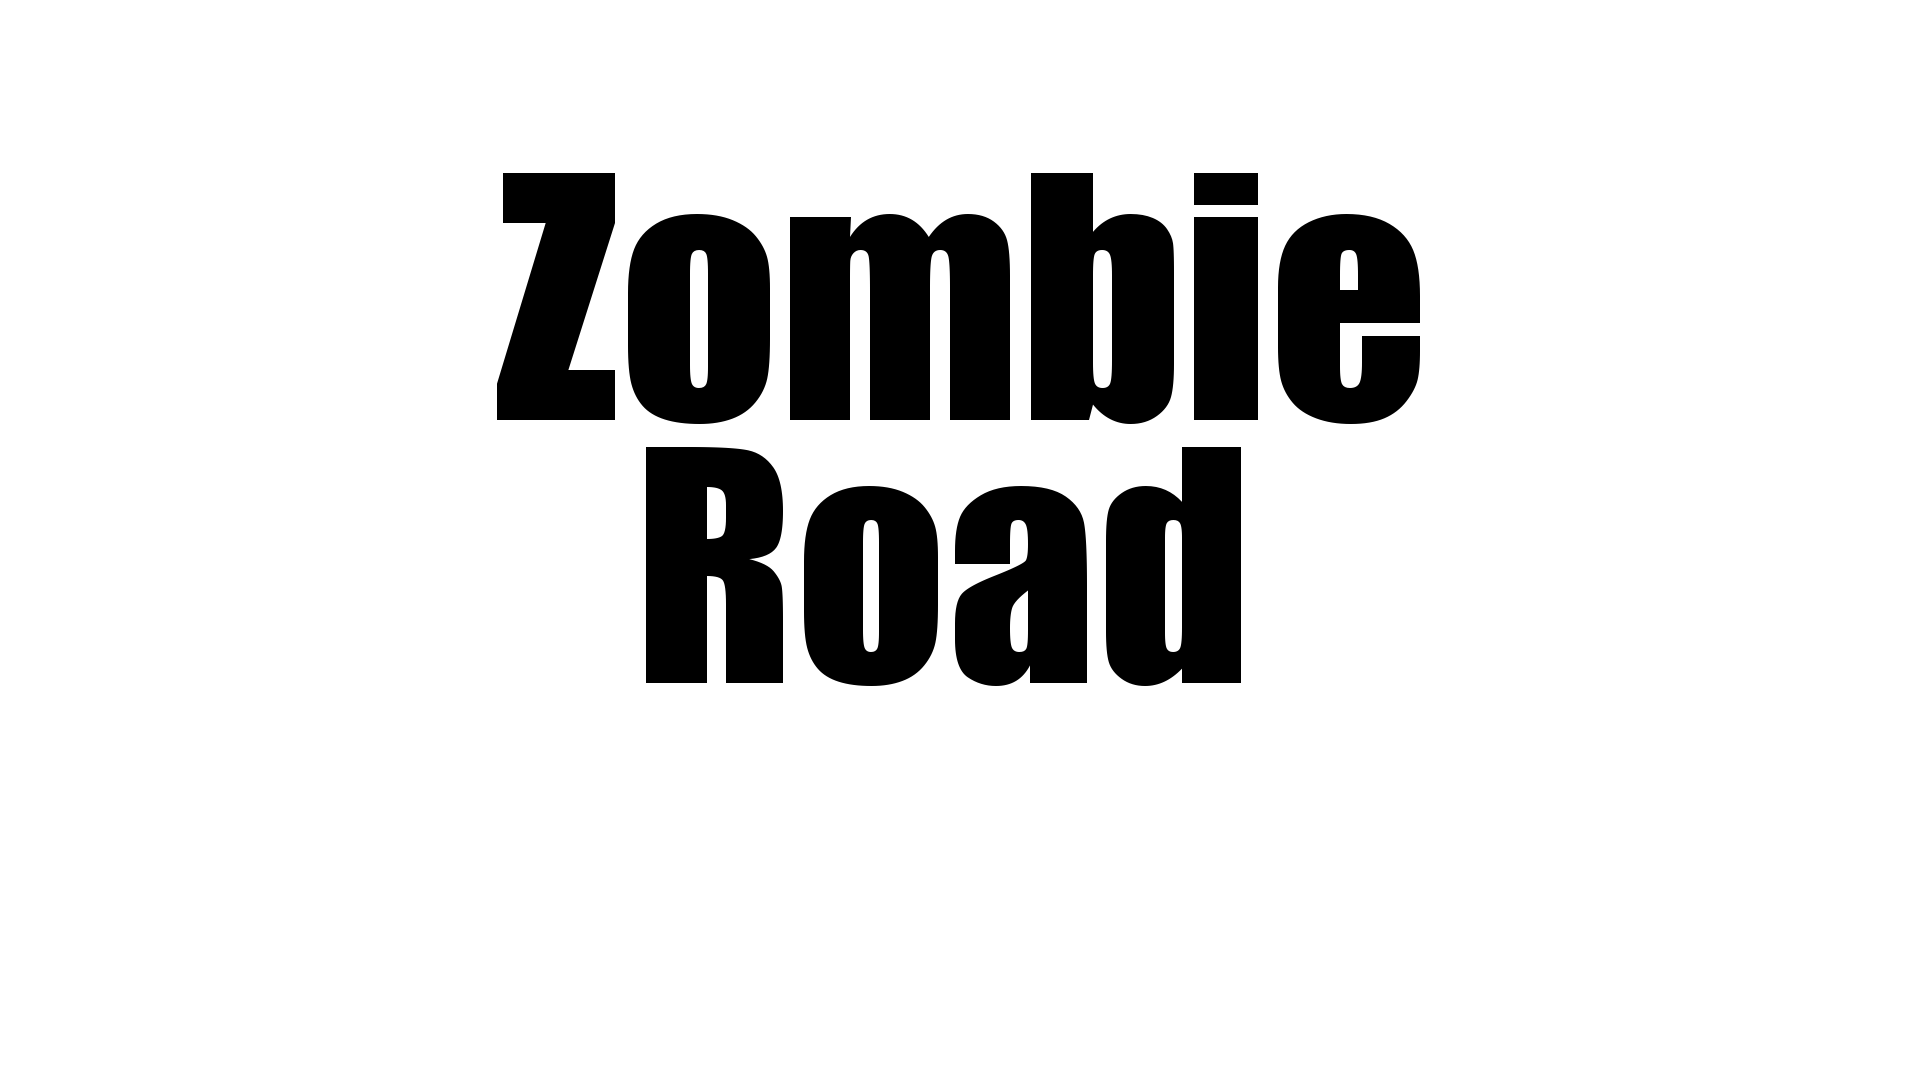
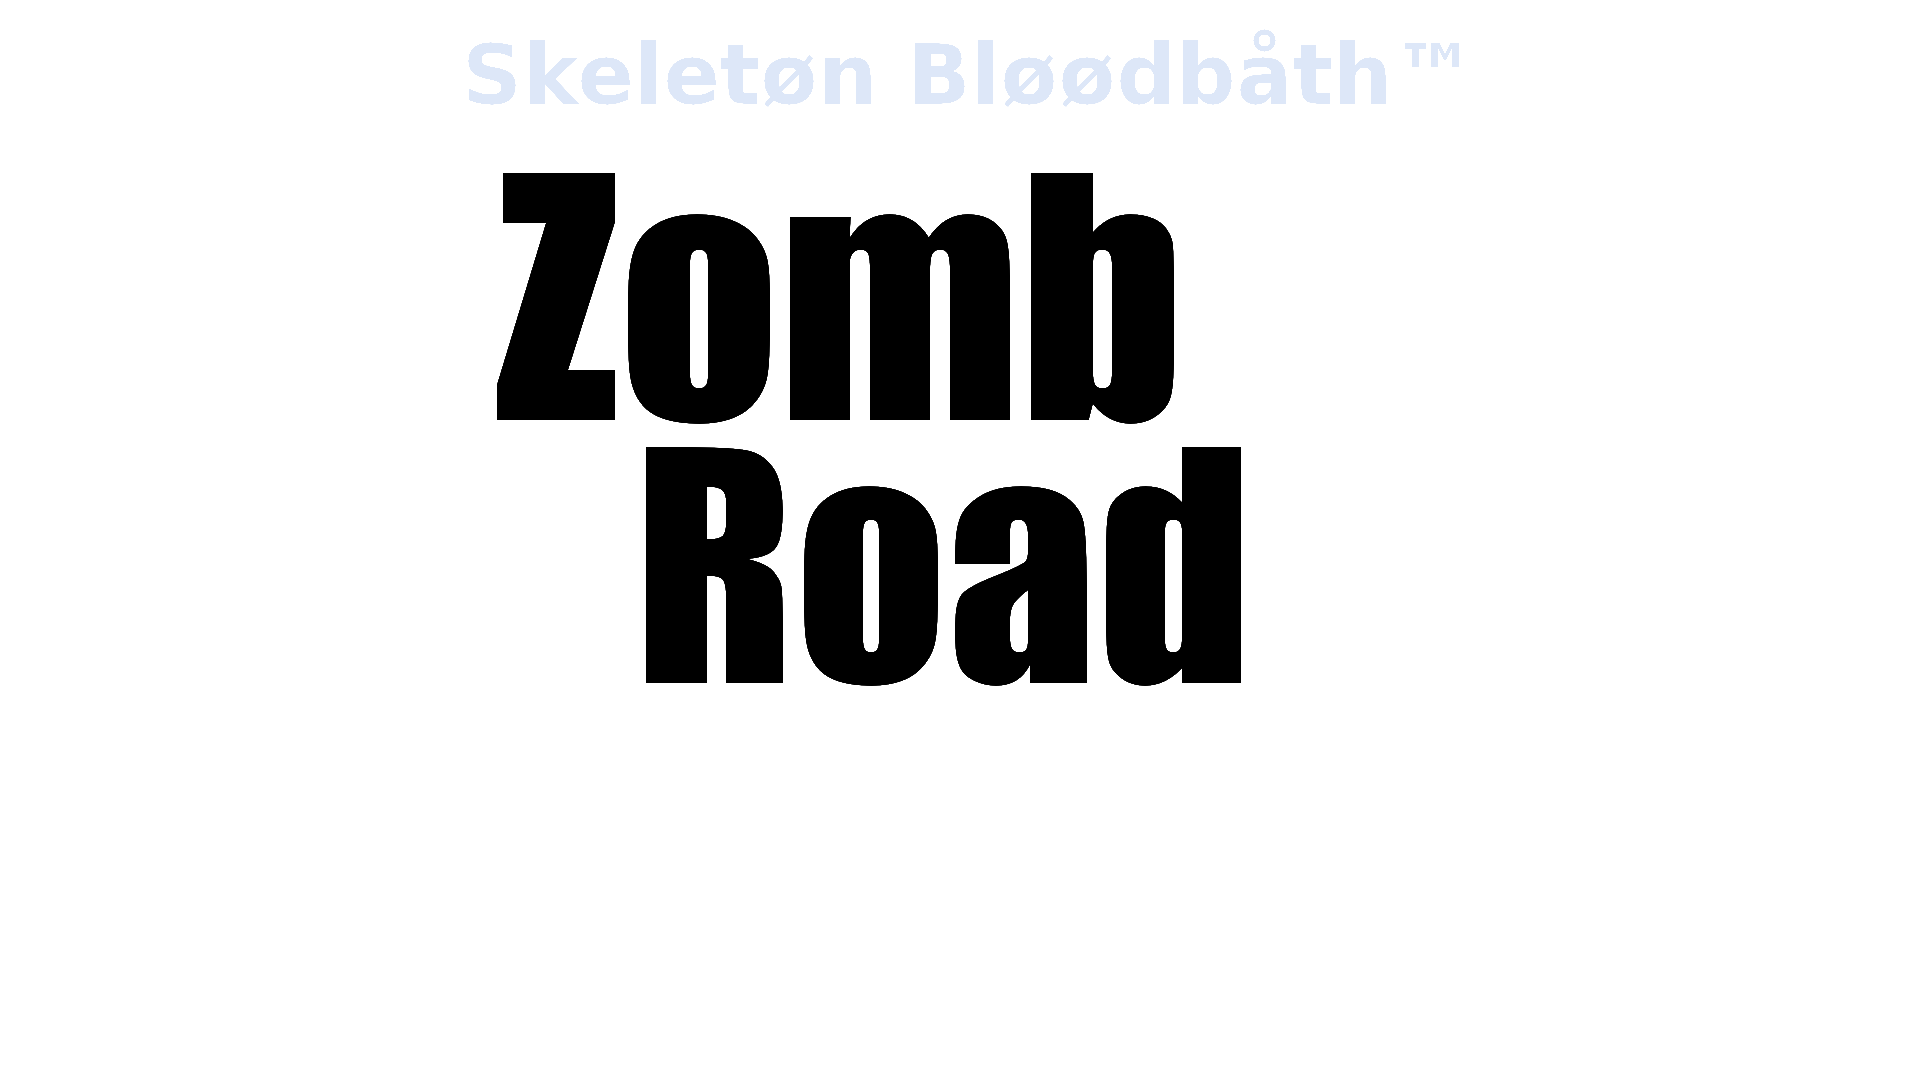
Added an empty city to the background of the title screen including burning vehicles

Changed region(s): [[0.2188, 0.0306, 0.7812, 0.0917], [0.5938, 0.1528, 0.75, 0.3972]]

diff --git a/Assets/Scripts/Road/RoadGenerator.cs b/Assets/Scripts/Road/RoadGenerator.cs
@@ -82,7 +82,7 @@ public class RoadGenerator : MonoBehaviour
 	{
 		CurrentPlayerPosition = RoadTileManager.checkpoint.FollowCamera.GetComponent<FollowCamera>().target.transform.position;
 
-		if (CurrentPlayerPosition.magnitude > 15 && Vector3.Distance(CachedPlayerPosition, CurrentPlayerPosition) < 15) return false;
+		if (!RoadTileManager.bMainMenu && CurrentPlayerPosition.magnitude > 15 && Vector3.Distance(CachedPlayerPosition, CurrentPlayerPosition) < 15) { MySpecificDebug += "15\n"; return false; }
 
 		CachedPlayerPosition = CurrentPlayerPosition;
 
@@ -545,7 +545,7 @@ public class RoadGenerator : MonoBehaviour
 				if (!hit[i].collider)//.gameObject.GetComponent<RoadGenerator>())
 				{
 					//if (DebugLogs) Debug.Log(gameObject.name + " can expand " + (Direction)i+", space left "+(Direction)Wrap0to7(i-1)+", space right "+(Direction)Wrap0to7(i+1));
-					//MySpecificDebug += "I can expand " + (Direction)i + ", space left " + (Direction)Wrap0to7(i - 1) + ", space right " + (Direction)Wrap0to7(i + 1) + "\n";
+					MySpecificDebug += "I can expand " + (Direction)i + ", space left " + (Direction)Wrap0to7(i - 1) + ", space right " + (Direction)Wrap0to7(i + 1) + "\n";
 
 					if (!Exit[i])
 					{
@@ -703,7 +703,7 @@ public class RoadGenerator : MonoBehaviour
 			}
 			if (DebugLogs) Debug.Log(LogExits());
 		}
-		MySpecificDebug += Time.unscaledTime + " Refreshed exits\n";
+		//MySpecificDebug += Time.unscaledTime + " Refreshed exits\n";
 	}
 
 	// where i is the Direction

diff --git a/Assets/Scripts/Road/RoadTileManager.cs b/Assets/Scripts/Road/RoadTileManager.cs
@@ -46,6 +46,8 @@ public class RoadTileManager : MonoBehaviour
 	public bool _Cull = true;
 	public static bool bCull;
 
+	public static bool bMainMenu;
+
 	//int MaxTimeUntilFieldCheck = 450;
 	//int TimeUntilFieldCheck;
 
@@ -66,6 +68,8 @@ public class RoadTileManager : MonoBehaviour
 		bCull = _Cull;
 
 		//TimeUntilFieldCheck = MaxTimeUntilFieldCheck;
+
+		bMainMenu = GetComponent<MainMenuDummyCheckpoint>() != null;
 	}
 
 	GameObject EmergencyFieldRemover;
@@ -90,7 +94,7 @@ public class RoadTileManager : MonoBehaviour
 		//if (TimeUntilFieldCheck==0)
 		//{
 		//	//110 is slightly under a quarter on average
-		if (Time.fixedTime > 1 && EmergencyFieldRemover == null && checkpoint.RoadMapRoot.GetComponentsInChildren<RoadGenerator>()[110] as DisabledRoadGenerator != null)
+		if (Time.fixedTime > 10000000000000 && EmergencyFieldRemover == null && checkpoint.RoadMapRoot.GetComponentsInChildren<RoadGenerator>()[110] as DisabledRoadGenerator != null)
 		{
 			int i = RoadGenerator.Wrap0to7((int)(checkpoint.FollowCamera.GetComponent<FollowCamera>().target.transform.rotation.eulerAngles.y / 45.0f));
 			RaycastHit Hit; Physics.Raycast(RoundDownToGrid(checkpoint.FollowCamera.GetComponent<FollowCamera>().target.transform.position) + new Vector3(RoadGenerator.Xoffset(i) * 12, 500, RoadGenerator.Zoffset(i) * 12), new Vector3(0, -1), out Hit, Mathf.Infinity, 1 << 9);

diff --git a/Assets/Scripts/Road/VehicleGenerator.cs b/Assets/Scripts/Road/VehicleGenerator.cs
@@ -27,7 +27,9 @@ public class VehicleGenerator : MonoBehaviour
 
 		r = Random.Range(0, 100);
 
-		if (!player.GetComponent<BaseVehicleClass>() || player.GetComponent<BaseVehicleClass>().GetFuelPercentage() < 0.33f)
+		bool bInVehicle = player.GetComponent<BaseVehicleClass>();
+
+		if (!bInVehicle|| player.GetComponent<BaseVehicleClass>().GetFuelPercentage() < 0.33f)
 		{
 			if (r <= 10 && UnlockManager.instance)
 			{
@@ -37,9 +39,10 @@ public class VehicleGenerator : MonoBehaviour
 				GameObject car = Instantiate(UnlockedCars[r], gameObject.transform.position+new Vector3(RoadGenerator.Xoffset(i)/4,3,RoadGenerator.Zoffset(i)/4), gameObject.transform.rotation);
 				//rg.MySpecificDebug += "generated vehicle @ " + car.transform.position + ", will not cull\n";
 				//rg.CullingExempt = true;
+				if (RoadTileManager.bMainMenu) car.GetComponent<BaseVehicleClass>().health = 0;
 			}
 		}
-		else if (r < RoadTileManager.instance.ChanceBarrier)
+		if ((RoadTileManager.bMainMenu || bInVehicle) && r < RoadTileManager.instance.ChanceBarrier)
 		{
 			GameObject[] RoadBlocks = Resources.LoadAll<GameObject>("Prefabs/Destructable Scenery/Fences/Road Barriers");
 			r = Random.Range(0, RoadBlocks.Length);

diff --git a/Assets/Scripts/Checkpoint.cs b/Assets/Scripts/Checkpoint.cs
@@ -27,7 +27,7 @@ public class Checkpoint : MonoBehaviour
 	
 	public Mesh[] lods;
 
-	void Start()
+	public virtual void Start()
 	{
 		checkpointPosition = FollowCamera.GetComponent<FollowCamera>().target.transform.position;
 		checkpointPosition.y = -0.1f;
@@ -51,7 +51,7 @@ public class Checkpoint : MonoBehaviour
 		if (!gameObject.GetComponent<MeshFilter>().mesh) gameObject.GetComponent<MeshFilter>().mesh = lods[0];
 	}
 
-	void Update()
+	public virtual void Update()
 	{
 		//Transform checkpointTransform = GetComponent<Transform>();
 		//checkpointTransform.Rotate((Vector3.up * checkpointRotationSpeed) * Time.deltaTime);
@@ -113,7 +113,7 @@ public class Checkpoint : MonoBehaviour
 		RoadMapRoot.BroadcastMessage("Extend", false);
 	}
 
-	void UpdateCheckpoint()
+	public virtual void UpdateCheckpoint()
 	{
 		checkpointRadius *= 1.5f;
 		gameObject.transform.localScale = new Vector3(checkpointRadius * 2, 8.0f, checkpointRadius * 2);

diff --git a/Assets/Scripts/MainMenuDummyCheckpoint.cs b/Assets/Scripts/MainMenuDummyCheckpoint.cs
@@ -1,0 +1,15 @@
+using System.Collections;
+using System.Collections.Generic;
+using UnityEngine;
+
+public class MainMenuDummyCheckpoint : Checkpoint
+{
+
+	// Use this for initialization
+	override public void Start() { }
+
+	// Update is called once per frame
+	override public void Update() { RoadMapRoot.BroadcastMessage("Extend", false); }
+
+	override public void UpdateCheckpoint() { }
+}
